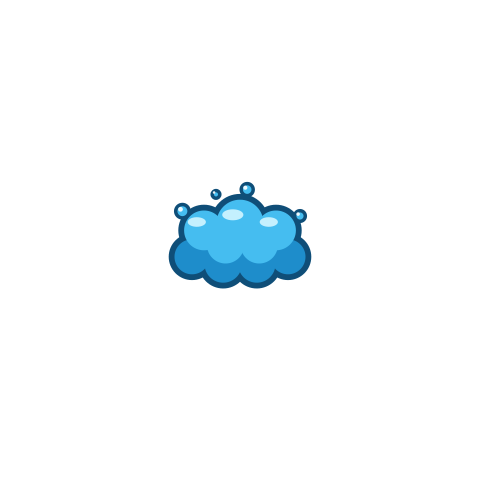
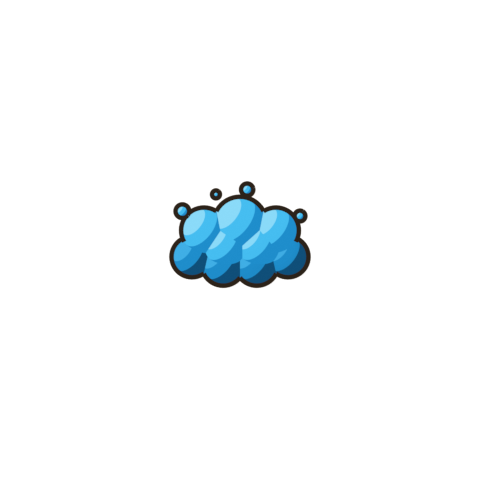
Фаянс, пена, капля, кнопки и табличка квартиры из Blender
Узор фаянса, значки кнопок и кольцо таблички — слоем поверх. Старая сборка их больше не перезаписывает.

Claude-Session: https://claude.ai/code/session_01KTF9zcDbthXae1taWntBSd

Changed region(s): [[0.3438, 0.375, 0.6562, 0.625]]

diff --git a/art/blender/misc.py b/art/blender/misc.py
@@ -1,0 +1,204 @@
+# art/blender/misc.py — мелкие спрайты в стиле Blender-арта: фаянсовый горшок, пена протечки, капля, круглые кнопки HUD,
+# эмалевая табличка с номером квартиры. Тот же мультяшный рендер (ступенчатая заливка, обводка Freestyle).
+# Рисунок на фаянсе и значки на кнопках — слоем поверх (SVG из art/gen2.py, art/gen.py).
+# Запуск: blender -b -P art/blender/misc.py -- <папка> [porcelain foam drop buttons plate]
+import bpy, bmesh, math, sys, os, subprocess, json
+from mathutils import Vector, Matrix
+from bpy_extras.object_utils import world_to_camera_view
+
+argv = sys.argv[sys.argv.index('--') + 1:]
+OUT = argv[0]
+ONLY = set(argv[1:])
+os.makedirs(OUT, exist_ok=True)
+
+
+def lin(c):
+    c = c.lstrip('#'); v = [int(c[i:i + 2], 16) / 255 for i in (0, 2, 4)]
+    return tuple(x / 12.92 if x <= 0.04045 else ((x + 0.055) / 1.055) ** 2.4 for x in v)
+
+
+def reset(res, scale, tilt=0.0, line=4.5):
+    """res — (ширина, высота) px; scale — ширина кадра в единицах сцены; tilt — наклон камеры сверху (градусы)."""
+    bpy.ops.wm.read_factory_settings(use_empty=True)
+    sc = bpy.context.scene
+    sc.render.engine = 'BLENDER_EEVEE'
+    sc.render.resolution_x, sc.render.resolution_y = res
+    sc.render.film_transparent = True
+    sc.view_settings.view_transform = 'Standard'
+    sc.render.use_freestyle = True
+    sc.render.line_thickness_mode = 'ABSOLUTE'
+    sc.render.line_thickness = 1.0
+    vl = sc.view_layers[0]
+    ls = vl.freestyle_settings.linesets.new('ol')
+    ls.select_by_visibility = True
+    ls.select_by_edge_types = True
+    ls.select_silhouette = True
+    ls.select_border = False
+    ls.select_crease = False
+    ls.select_external_contour = True
+    ls.linestyle = bpy.data.linestyles.new('ol')
+    ls.linestyle.color = (0.024, 0.016, 0.010)
+    ls.linestyle.thickness = line
+    for other in vl.freestyle_settings.linesets:
+        if other.linestyle is None:
+            other.linestyle = ls.linestyle
+    t = math.radians(tilt)
+    cam = bpy.data.objects.new('cam', bpy.data.cameras.new('cam'))
+    cam.data.type = 'ORTHO'
+    cam.data.ortho_scale = scale
+    cam.location = (0, -10 * math.cos(t), 10 * math.sin(t))
+    cam.rotation_euler = (math.radians(90) - t, 0, 0)
+    sc.collection.objects.link(cam)
+    sc.camera = cam
+    sun = bpy.data.objects.new('sun', bpy.data.lights.new('sun', 'SUN'))
+    sun.data.energy = 3.0
+    sun.rotation_euler = (math.radians(50), math.radians(-35), math.radians(-25))
+    sc.collection.objects.link(sun)
+    sc.world = bpy.data.worlds.new('w')
+    sc.world.use_nodes = True
+    sc.world.node_tree.nodes['Background'].inputs[1].default_value = 0.0
+    return sc
+
+
+def toon(dark, mid, light, spec):
+    m = bpy.data.materials.new('t'); m.use_nodes = True
+    nt = m.node_tree; nt.nodes.clear()
+    out = nt.nodes.new('ShaderNodeOutputMaterial')
+    dif = nt.nodes.new('ShaderNodeBsdfDiffuse')
+    s2r = nt.nodes.new('ShaderNodeShaderToRGB')
+    ramp = nt.nodes.new('ShaderNodeValToRGB')
+    emi = nt.nodes.new('ShaderNodeEmission')
+    cr = ramp.color_ramp
+    cr.interpolation = 'CONSTANT'
+    cr.elements[0].position, cr.elements[0].color = 0.0, (*lin(dark), 1)
+    cr.elements[1].position, cr.elements[1].color = 0.18, (*lin(mid), 1)
+    e = cr.elements.new(0.55); e.color = (*lin(light), 1)
+    e = cr.elements.new(0.92); e.color = (*lin(spec), 1)
+    nt.links.new(dif.outputs[0], s2r.inputs[0])
+    nt.links.new(s2r.outputs[0], ramp.inputs[0])
+    nt.links.new(ramp.outputs[0], emi.inputs[0])
+    nt.links.new(emi.outputs[0], out.inputs[0])
+    return m
+
+
+def flat(col):
+    m = bpy.data.materials.new('f'); m.use_nodes = True
+    nt = m.node_tree; nt.nodes.clear()
+    out = nt.nodes.new('ShaderNodeOutputMaterial')
+    emi = nt.nodes.new('ShaderNodeEmission'); emi.inputs[0].default_value = (*lin(col), 1)
+    nt.links.new(emi.outputs[0], out.inputs[0])
+    return m
+
+
+def put(o, mat, smooth=True):
+    if smooth:
+        for p in o.data.polygons: p.use_smooth = True
+    o.data.materials.append(mat)
+    return o
+
+
+def lathe(profile, mat, segs=64):
+    """Тело вращения вокруг оси Z по профилю [(r, z)]."""
+    bm = bmesh.new()
+    rings = [[bm.verts.new((r * math.cos(2 * math.pi * j / segs), r * math.sin(2 * math.pi * j / segs), z)) for j in range(segs)] for r, z in profile]
+    for a, b in zip(rings, rings[1:]):
+        for j in range(segs):
+            bm.faces.new((a[j], a[(j + 1) % segs], b[(j + 1) % segs], b[j]))
+    for ring, top in ((rings[0], False), (rings[-1], True)):
+        if profile[0 if not top else -1][0] > 1e-4:
+            f = bm.faces.new(ring if top else list(reversed(ring)))
+    bmesh.ops.recalc_face_normals(bm, faces=bm.faces)
+    me = bpy.data.meshes.new('l'); bm.to_mesh(me); bm.free()
+    o = bpy.data.objects.new('l', me); bpy.context.scene.collection.objects.link(o)
+    return put(o, mat)
+
+
+def sphere(r, p, mat, scale=(1, 1, 1)):
+    bpy.ops.mesh.primitive_uv_sphere_add(radius=r, location=p, segments=48, ring_count=24)
+    o = bpy.context.object; o.scale = scale
+    bpy.ops.object.transform_apply(scale=True)
+    return put(o, mat)
+
+
+def anchor(sc, p):
+    u = world_to_camera_view(sc, sc.camera, Vector(p))
+    return u.x * sc.render.resolution_x, (1 - u.y) * sc.render.resolution_y
+
+
+def render(sc, name):
+    path = os.path.join(OUT, name + '_raw.png')
+    sc.render.filepath = path
+    bpy.ops.render.render(write_still=True)
+    return path
+
+
+def shadow(src, dst, blur=5, dx=5, dy=8, op=.45):
+    subprocess.run(['convert', src, '(', '+clone', '-fill', 'black', '-colorize', '100', '-channel', 'A', '-evaluate', 'multiply', str(op),
+                    '+channel', '-blur', '0x%s' % blur, '-roll', '+%d+%d' % (dx, dy), ')', '+swap', '-background', 'none', '-composite', dst], check=True)
+
+
+AJ = os.path.join(OUT, 'misc_anchors.json')
+AN = json.load(open(AJ)) if os.path.exists(AJ) else {}  # частичный прогон дополняет
+if not ONLY or 'porcelain' in ONLY:          # фаянсовый горшок с крышкой (канон: белый, синий узор)
+    sc = reset((480, 480), 2.0, tilt=14)
+    W = toon('#9FAAB6', '#DDE3EA', '#F4F7FA', '#FFFFFF')
+    prof = [(0, -.36), (.30, -.36), (.36, -.32), (.38, -.24), (.38, .16), (.36, .22), (.33, .25)]
+    lathe(prof, W)
+    lathe([(.30, .24), (.40, .25), (.42, .29), (.40, .33), (.12, .35), (0, .35)], W)
+    sphere(.07, (0, 0, .39), W, (1, 1, .8))
+    AN['porcelain'] = {'band1': anchor(sc, (0, -.39, .08)), 'band2': anchor(sc, (0, -.39, -.18)), 'mid': anchor(sc, (0, -.39, -.05)),
+                       'left': anchor(sc, (-.30, -.39, -.05)), 'right': anchor(sc, (.30, -.39, -.05))}
+    render(sc, 'porcelain')
+if not ONLY or 'foam' in ONLY:               # пена протечки: клубы-сферы, снизу темнее, сверху светлее
+    sc = reset((480, 480), 2.0)
+    LO = toon('#0F4E78', '#1E8DCB', '#3FAEE5', '#9FE0FA')
+    HI = toon('#1E8DCB', '#45BDF0', '#8ADAF8', '#E4F8FF')
+    for x, z, r in ((-.20, -.07, .085), (-.07, -.10, .09), (.07, -.10, .09), (.20, -.07, .085)):
+        sphere(r, (x, .05, z), LO)
+    for x, z, r in ((-.15, .04, .095), (0, .07, .11), (.15, .04, .095), (-.06, -.02, .09), (.08, -.02, .09)):
+        sphere(r, (x, 0, z), HI)
+    for x, z, r in ((-.24, .12, .028), (.25, .10, .022), (.03, .21, .025), (-.10, .19, .016)):
+        sphere(r, (x, -.05, z), HI)
+    render(sc, 'foam')
+if not ONLY or 'drop' in ONLY:               # капля
+    sc = reset((120, 120), 2.0, line=3.0)
+    D = toon('#0F6E9E', '#2EC4F1', '#7FDDF8', '#E4F8FF')
+    # профиль капли: шар снизу (r .30 с центром на -.10), конус к острию на +.62
+    prof = []
+    for i in range(0, 13):
+        a = -math.pi / 2 + i / 12 * (math.pi / 2 + .52)
+        prof.append((.30 * math.cos(a), -.10 + .30 * math.sin(a)))
+    x0, z0 = prof[-1]
+    for i in range(1, 9):
+        t = i / 8
+        prof.append((x0 * (1 - t), z0 + (.62 - z0) * t))
+    lathe(prof, D)
+    render(sc, 'drop')
+if not ONLY or 'buttons' in ONLY:            # кнопки HUD: латунный ободок, тёмное поле (значок — слоем поверх)
+    sc = reset((144, 144), 144 / 60, line=4.0)
+    B = toon('#7A5414', '#C9962E', '#EBC260', '#FFF3C2')
+    K = toon('#151210', '#2A2622', '#3A342E', '#4A433B')
+    bpy.ops.mesh.primitive_torus_add(major_radius=.88, minor_radius=.12, major_segments=96, minor_segments=24, rotation=(math.radians(90), 0, 0))
+    put(bpy.context.object, B)
+    bpy.ops.mesh.primitive_cylinder_add(vertices=96, radius=.80, depth=.10, rotation=(math.radians(90), 0, 0), location=(0, .02, 0))
+    put(bpy.context.object, K, smooth=False)
+    render(sc, 'button')
+if not ONLY or 'plate' in ONLY:              # эмалевая табличка с номером квартиры (номер пишет движок)
+    sc = reset((260, 180), 260 / 120, line=4.0)
+    WH = toon('#A9A394', '#E3DED2', '#F2EEE4', '#FFFFFF')
+    BL = toon('#122E5C', '#1F4E97', '#2E66B8', '#6E9AD8')
+    SC = toon('#5E6770', '#A3ADB7', '#D3DAE1', '#FFFFFF')
+    bpy.ops.mesh.primitive_cylinder_add(vertices=128, radius=1, depth=.08, rotation=(math.radians(90), 0, 0))
+    o = bpy.context.object; o.scale = (.93, .63, 1); bpy.ops.object.transform_apply(scale=True)
+    md = o.modifiers.new('b', 'BEVEL'); md.width = .03; md.segments = 4; bpy.ops.object.modifier_apply(modifier='b')
+    put(o, WH)
+    bpy.ops.mesh.primitive_cylinder_add(vertices=128, radius=1, depth=.04, rotation=(math.radians(90), 0, 0), location=(0, -.03, 0))
+    o = bpy.context.object; o.scale = (.81, .51, 1); bpy.ops.object.transform_apply(scale=True)
+    put(o, BL, smooth=False)
+    for x in (-.83, .83):
+        sphere(.06, (x, -.05, 0), SC, (1, .5, 1))
+    AN['plate'] = {'ring': [anchor(sc, (0, -.06, 0)), anchor(sc, (.75, -.06, .45))]}
+    render(sc, 'plate')
+with open(AJ, 'w') as f:
+    json.dump(AN, f)
+print('MISC done')

diff --git a/art/misc_compose.py b/art/misc_compose.py
@@ -1,0 +1,63 @@
+#!/usr/bin/env python3
+# -*- coding: utf-8 -*-
+"""art/misc_compose.py — мелкие спрайты из рендера art/blender/misc.py + слой поверх (узор фаянса, значки кнопок,
+белое кольцо таблички), тень → assets/gfx (porcelain, foam, drop, btn_*, hud_plate).
+   xvfb-run -a blender -b -P art/blender/misc.py -- build/misc && python3 art/misc_compose.py build/misc"""
+import json, math, os, re, subprocess, sys
+sys.path.insert(0, os.path.dirname(os.path.abspath(__file__)))
+import gen, gen2
+from gen import C, E, Ln, n
+from gen2 import button2
+
+SRC = sys.argv[1] if len(sys.argv) > 1 else os.path.join(gen2.ROOT, 'build', 'misc')
+OUT = os.path.join(gen2.ROOT, 'assets', 'gfx')
+AN = json.load(open(os.path.join(SRC, 'misc_anchors.json')))
+
+
+def run(*a):
+    subprocess.run(a, check=True)
+
+
+def overlay(raw, svg_body, w, h, dst, shadow=(5, 5, 8, .45)):
+    svg = os.path.join(SRC, '_ov.svg')
+    with open(svg, 'w', encoding='utf-8') as f:
+        f.write('<svg xmlns="http://www.w3.org/2000/svg" width="%d" height="%d"><defs>%s</defs>%s</svg>' % (w, h, gen.DEFS, svg_body))
+    ov = os.path.join(SRC, '_ov.png')
+    run('rsvg-convert', '-w', str(w), '-h', str(h), '-o', ov, svg)
+    comp = os.path.join(SRC, '_c.png')
+    run('convert', raw, ov, '-composite', comp)
+    if shadow:
+        b, dx, dy, op = shadow
+        run('convert', comp, '(', '+clone', '-fill', 'black', '-colorize', '100', '-channel', 'A', '-evaluate', 'multiply', str(op),
+            '+channel', '-blur', '0x%s' % b, '-roll', '+%d+%d' % (dx, dy), ')', '+swap', '-background', 'none', '-composite', dst)
+    else:
+        run('cp', comp, dst)
+    print(os.path.basename(dst))
+
+
+# фаянс: синие полосы и цветочки (гжель), как в каноне
+a = AN['porcelain']
+BL = '#2F5E9E'
+s = []
+(lx, _), (rx, _) = a['left'], a['right']
+for key in ('band1', 'band2'):
+    x, y = a[key]
+    s.append(Ln(lx + 6, y, rx - 6, y, BL, 5))
+x, y = a['mid']
+for i in range(5):
+    fx = lx + (rx - lx) * (i + .5) / 5
+    for ang in (0, 90):
+        s.append(E(fx, y, 10, 4, BL, transform='rotate(%d %s %s)' % (ang + 45, n(fx), n(y))))
+    s.append(C(fx, y, 3, '#FFFFFF'))
+overlay(os.path.join(SRC, 'porcelain_raw.png'), ''.join(s), 480, 480, os.path.join(OUT, 'porcelain.png'))
+overlay(os.path.join(SRC, 'foam_raw.png'), '', 480, 480, os.path.join(OUT, 'foam.png'), shadow=None)
+overlay(os.path.join(SRC, 'drop_raw.png'), '', 120, 120, os.path.join(OUT, 'drop.png'), shadow=None)
+# кнопки: значок из прежнего рисунка (без трёх кругов — тени, ободка и поля)
+for k in ('undo', 'restart', 'hint', 'menu'):
+    body = button2(k, 72, 72)
+    body = re.sub(r'<circle[^>]*/>', '', body, count=3)
+    overlay(os.path.join(SRC, 'button_raw.png'), body, 144, 144, os.path.join(OUT, 'btn_%s.png' % k), shadow=(3, 3, 6, .4))
+# табличка: тонкое белое кольцо по синему полю
+(cx, cy), (ex, ey) = AN['plate']['ring']
+overlay(os.path.join(SRC, 'plate_raw.png'), E(cx, cy, abs(ex - cx) * 1.0, abs(ey - cy) * 1.0, 'none', stroke='#FFFFFF', stroke_width=4),
+        260, 180, os.path.join(OUT, 'hud_plate.png'))

diff --git a/art/export.py b/art/export.py
@@ -56,7 +56,7 @@ def fit_box(body, sw=.80, sh=.92):
 
 # Приборы (03.10) рисует Blender: art/blender/fixtures.py → art/fx_compose.py (спрайты fx_*.png и game/fx_sizes.lua).
 # Старые SVG-приборы gen2 (bath2, heater2 …) остаются только для немых сцен.
-sprite('porcelain', porcelain2(X, Y, CR))
+# porcelain, foam, drop, btn_*, hud_plate рисует Blender: art/blender/misc.py → art/misc_compose.py
 SIG = {'up': 'u', 'right': 'r', 'down': 'd', 'left': 'l'}
 for lv in screens2.L:
     for ob in lv['objects']:
@@ -69,19 +69,12 @@ for th in ('N', 'V'):
     sprite('port_%s' % th, port2(X, Y, CR, 'right', th, False))
     sprite('port_%s_fixed' % th, port2(X, Y, CR, 'right', th, True))
     pass  # port_N_fx / port_V_fx (подводка приборов) рендерит Blender: art/blender/fittings.py ports
-out('foam', parts.foam(X, Y, CR), 2 * CR, 2 * CR)  # протечка — пена у открытой резьбы: центр пены — центр холста
 # герой: голова и ноги во всех направлениях, активные и спящие
 for dr in ('right', 'left', 'up', 'down'):
     for act in (True, False):
         sprite('head_%s_%s' % (dr, 'on' if act else 'off'), headL((X, Y), dr, CR, act, False))
         # ноги рисует Blender: blender -b -P art/blender/fittings.py -- assets/gfx feet
 out('fluff', fluff2(X, Y, CR), 2 * CR, 2 * CR)
-out('drop', gen.drop(60, 70, 26), 120, 120)
-for k in ('undo', 'restart', 'hint', 'menu'):
-    out('btn_%s' % k, button2(k, 72, 72), 144, 144)
-out('hud_plate', G(gen.E(130, 90, 112, 76, '#EFEADF', stroke=Q['ol'], stroke_width=5) + gen.E(130, 90, 98, 62, '#1F4E97')
-                   + gen.E(130, 90, 90, 54, 'none', stroke='#FFFFFF', stroke_width=4) + C(30, 90, 7, '#B8B2A2', stroke=Q['ol'], stroke_width=2)
-                   + C(230, 90, 7, '#B8B2A2', stroke=Q['ol'], stroke_width=2), filter='url(#dsh)'), 260, 180)
 out('hud_tag', G(R(10, 24, 300, 76, '#F4EEDC', rx=4, stroke='#B9AF98', stroke_width=2) + R(124, 12, 72, 26, '#E6DDB4', opacity='.85'), filter='url(#dsh)'), 320, 120)
 # фоны квартир: кладка, комната, сливы, стояк, крючья (приборы, фаянс, герой — спрайтами)
 for lv in screens2.L:
